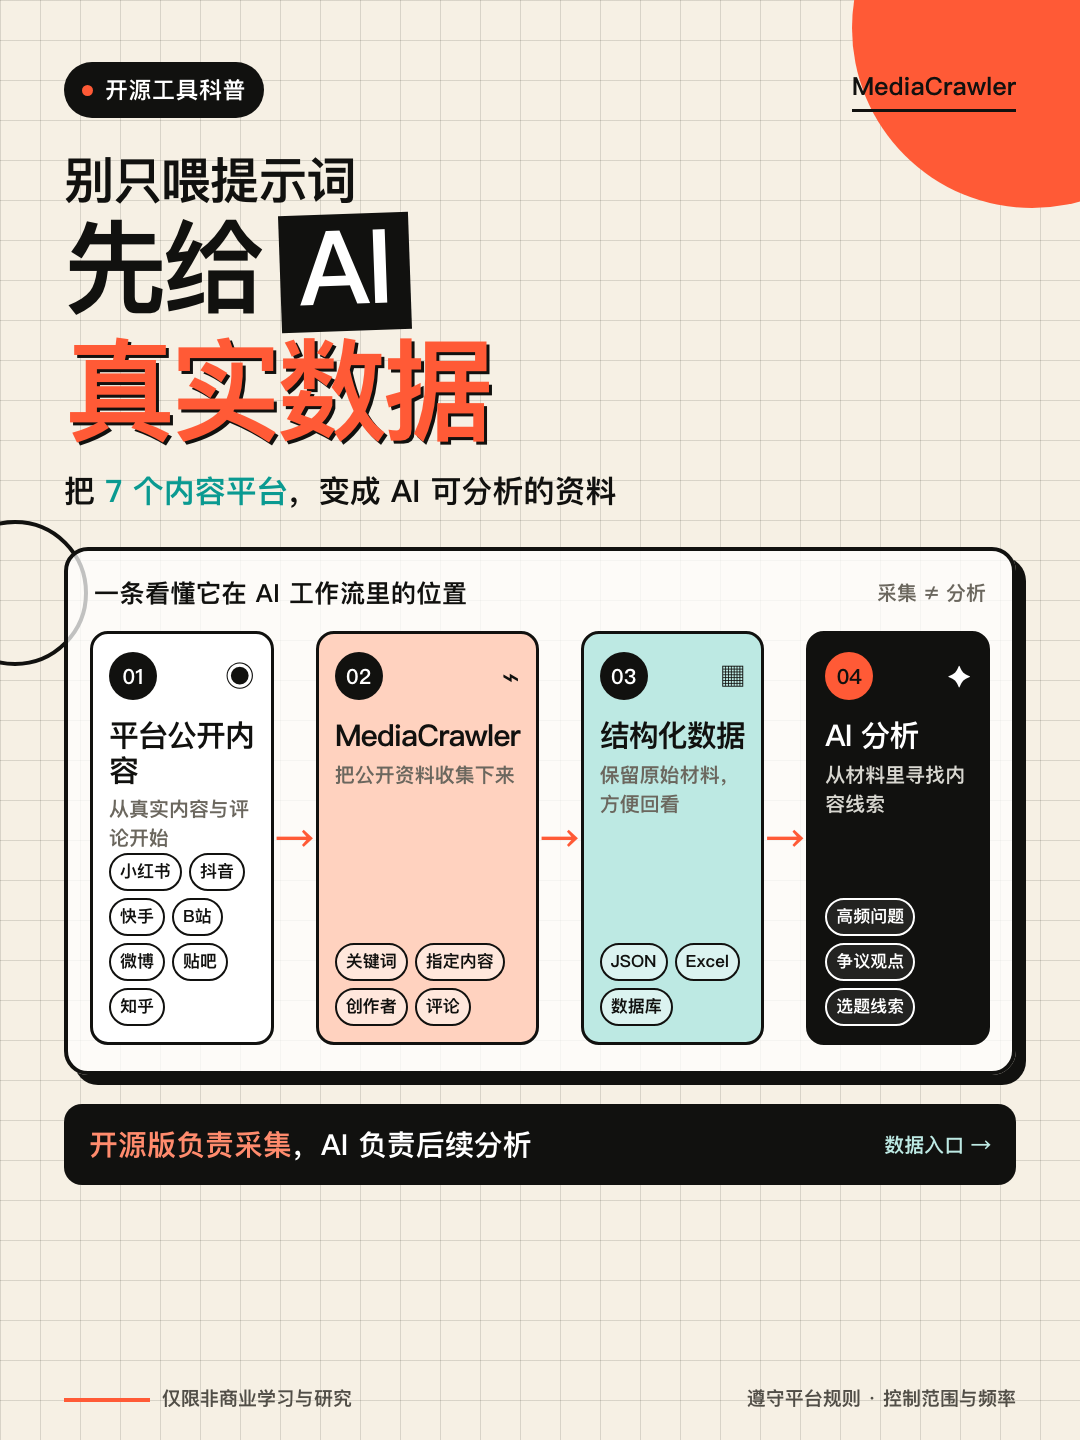
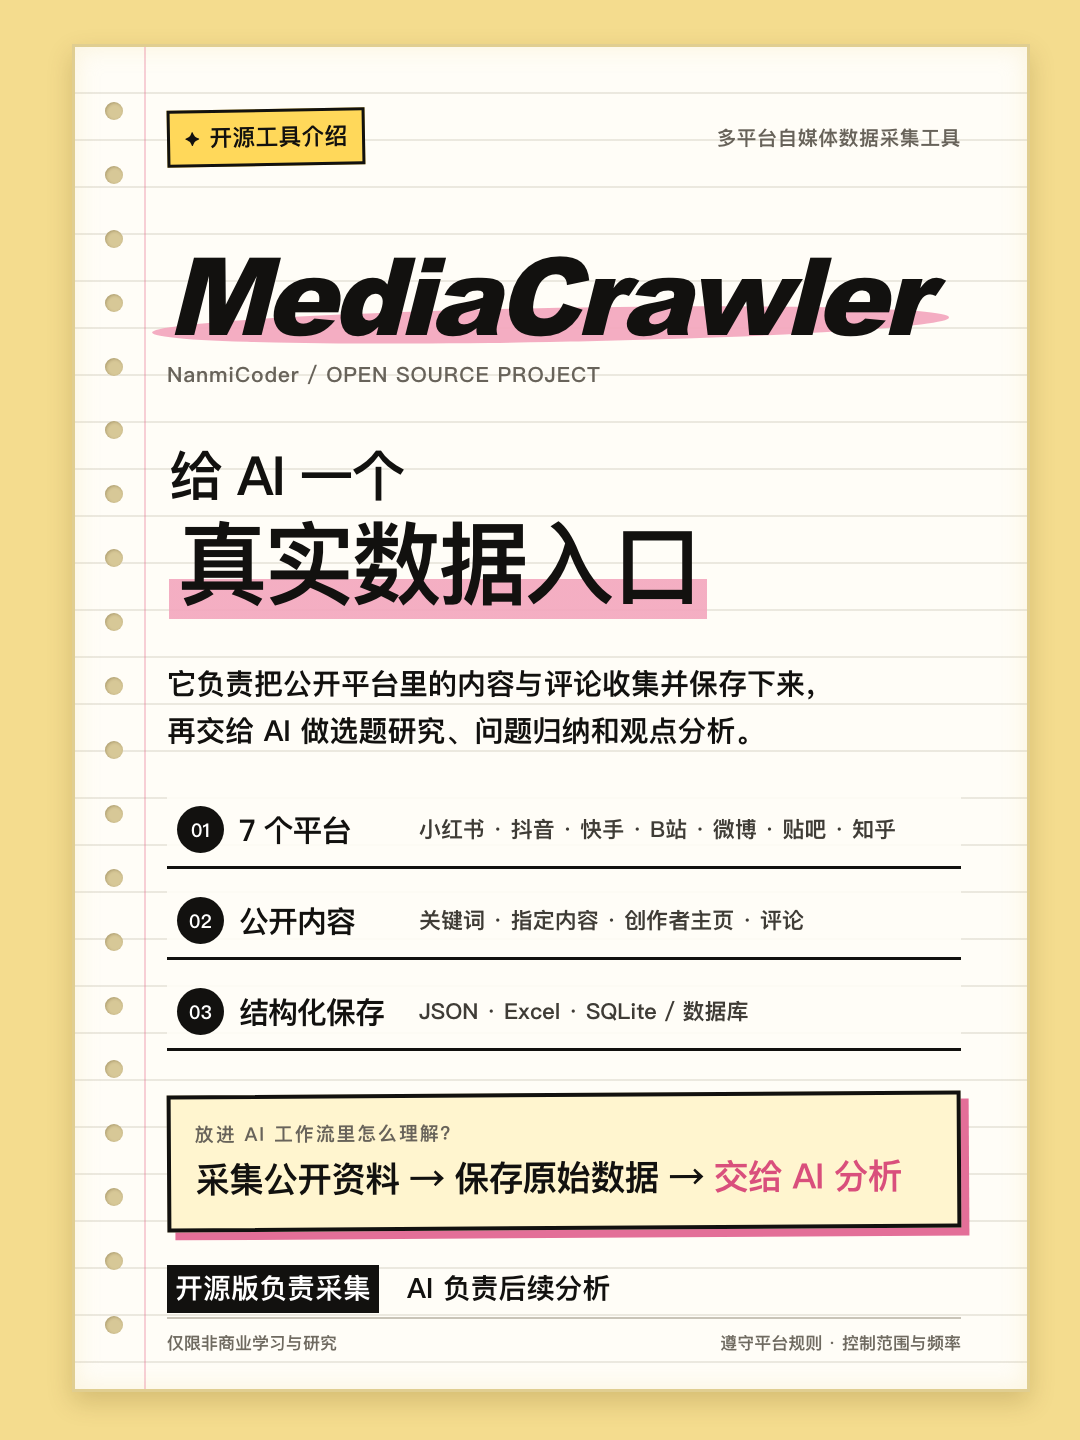
视觉：按参考模板重做 MediaCrawler 单图

diff --git a/projects/issue-6-mediacrawler-ai-data-entry/cards/plan.md b/projects/issue-6-mediacrawler-ai-data-entry/cards/plan.md
@@ -14,22 +14,23 @@
 
 ## 信息结构
 
-1. 顶部眉题：`开源工具科普 · MediaCrawler`
-2. 主标题：`别只喂提示词 / 先给 AI / 真实数据`
-3. 副标题：`把 7 个内容平台，变成 AI 可分析的资料`
-4. 四步流程：
-   - `01 平台公开内容`：小红书、抖音、快手、B站、微博、贴吧、知乎；
-   - `02 MediaCrawler`：搜索、内容、主页、评论；
-   - `03 结构化数据`：JSON、Excel、数据库；
-   - `04 AI 分析`：高频问题、争议观点、选题线索。
-5. 结论条：`开源版负责采集，AI 负责后续分析`
-6. 底部边界：`仅限非商业学习与研究 · 遵守平台规则`
+1. 顶部眉题：`开源工具介绍`；右侧小字：`多平台自媒体数据采集工具`
+2. 第一视觉中心：`MediaCrawler`
+3. AI 角度：`给 AI 一个 / 真实数据入口`
+4. 项目能力：
+   - `7 个平台`：小红书、抖音、快手、B站、微博、贴吧、知乎；
+   - `公开内容`：关键词、指定内容、创作者、评论；
+   - `结构化保存`：JSON、Excel、数据库。
+5. 简化链路：`采集公开资料 → 保存原始数据 → 交给 AI 分析`
+6. 结论：`开源版负责采集 · AI 负责后续分析`
+7. 底部边界：`仅限非商业学习与研究 · 遵守平台规则`
 
 ## 视觉路线
 
-- 米白纸张底色和细网格，降低“赛博模板”感；
-- 黑色大字建立信息层级，橙色突出“真实数据”；
-- 流程节点使用蓝绿与浅橙色，箭头清楚但不过度装饰；
+- 参考 [“自媒体人都在用的爬虫神器”](https://www.xiaohongshu.com/explore/694eed8c000000002203a8f0) 的横线笔记本封面结构；
+- 复刻暖黄色外框、白色横线纸、左侧装订孔、黑色粗体和粉色荧光笔强调关系；
+- 弱化 GitHub：不使用大号 `GitHub` 字样与章鱼图形，只用小号 `开源工具介绍` 交代类别；
+- `MediaCrawler` 占据最大字号与中心位置，项目介绍优先于平台或流程；
 - 所有平台只使用文字标签，不使用 Logo；
 - 不放 GitHub Star、作者头像、仓库截图或未经许可的外部图片。
 
@@ -40,13 +41,13 @@
 - 开源版/Pro 版边界：README 的 MediaCrawlerPro 段落；
 - 非商业学习边界：LICENSE。
 
-完整来源见 `../sources/mediacrawler-source-map.md`。
+事实来源见 `../sources/mediacrawler-source-map.md`；视觉参考见 `../sources/visual-reference.md`。
 
 ## QA 重点
 
-- 主标题在手机缩略图下仍清楚；
+- `MediaCrawler` 和“真实数据入口”在手机缩略图下仍清楚；
 - 七个平台名称无遗漏、无错字；
-- 四步流程顺序一眼可读；
+- 三组项目能力和简化链路顺序一眼可读；
 - 不让读者误以为 MediaCrawler 开源版内置 AI；
 - 底部边界文字不贴边、不裁切；
 - 最终目录中只有一张 PNG。

diff --git a/projects/issue-6-mediacrawler-ai-data-entry/qa.md b/projects/issue-6-mediacrawler-ai-data-entry/qa.md
@@ -12,6 +12,7 @@
 - [x] 易变化的 Star、Fork 数未进入文案；
 - [x] 事实、编辑观点和方法推测已在 `research.md` 分开记录；
 - [x] 来源记录固定到核验提交 `1779dde9725f6b7ef42e29022c0054b3e678f1af`。
+- [x] 视觉参考帖、作者、采用结构和适配差异已记录在 `sources/visual-reference.md`。
 
 ## 文案
 
@@ -28,10 +29,11 @@
 - [x] 最终图片为 `1080×1440` PNG；
 - [x] `cards/output/` 只包含 `xhs-01-cover.png` 一张图片；
 - [x] 已按原始尺寸实际打开检查；
-- [x] 已缩放为 `360×480` 手机预览检查主标题、四步流程和结论条；
-- [x] 主标题、工具名、七个平台和四步流程无错字；
+- [x] 已缩放为 `360×480` 手机预览检查项目名、AI Hook、三组能力和结论条；
+- [x] `MediaCrawler` 是第一视觉中心，大号 GitHub 标题与 GitHub 图形均未使用；
+- [x] 项目名、“真实数据入口”、七个平台和三组能力无错字；
 - [x] 文字无溢出、遮挡或错误裁切，四周安全边距充足；
-- [x] 流程顺序为“平台公开内容 → MediaCrawler → 结构化数据 → AI 分析”；
+- [x] 简化链路为“采集公开资料 → 保存原始数据 → 交给 AI 分析”；
 - [x] 未使用平台 Logo、仓库截图或外部图片；
 - [x] 卡片明确写出“开源版负责采集，AI 负责后续分析”；
 - [x] 底部保留非商业学习与平台规则提示。

diff --git a/projects/issue-6-mediacrawler-ai-data-entry/sources/visual-reference.md b/projects/issue-6-mediacrawler-ai-data-entry/sources/visual-reference.md
@@ -1,0 +1,25 @@
+# 单图视觉参考
+
+核验日期：2026-07-31（Asia/Taipei）
+
+## 选定参考
+
+- 参考帖：[自媒体人都在用的爬虫神器！！](https://www.xiaohongshu.com/explore/694eed8c000000002203a8f0)
+- 作者：北美小厂花花
+- 相关性：参考帖介绍的同样是 MediaCrawler，属于同题材项目介绍。
+- 采用结构：暖黄色外框、白色横线纸、左侧装订孔、顶部类别、居中项目名、下方简短能力说明。
+
+## 本篇适配
+
+- 去掉参考图中占据第一视觉层级的 `GitHub / 开源项目分享`；
+- 去掉 GitHub 章鱼图形，不让平台品牌抢过项目本身；
+- 将 `MediaCrawler` 放到最大字号和画面中心；
+- 第二视觉层级改为“给 AI 一个真实数据入口”；
+- 底部用三组短信息介绍七个平台、公开内容采集和结构化保存；
+- 保留“开源版负责采集，AI 负责后续分析”的事实边界。
+
+## 不复用内容
+
+- 不复制参考帖的正文、项目描述句子、作者署名和排版源文件；
+- 不下载或直接编辑参考帖原图；
+- 仅复刻已经由用户确认的封面结构与视觉关系，全部文字和成图重新制作。

diff --git a/projects/issue-6-mediacrawler-ai-data-entry/manifest.md b/projects/issue-6-mediacrawler-ai-data-entry/manifest.md
@@ -7,11 +7,11 @@
 - 下游文本模型：未调用；研究与写作由 Codex 基于可追溯来源完成
 - 下游图片模型：未调用；唯一卡片采用确定性 HTML/CSS 渲染
 - 下游视频模型：未调用；静态图文不进入视频链路
-- 已完成：`brief.md`、`sources/mediacrawler-source-map.md`、`research.md`、`copy.md`、`cards/plan.md`、`cards/output/xhs-01-cover.png`、`qa.md`
+- 已完成：`brief.md`、`sources/mediacrawler-source-map.md`、`sources/visual-reference.md`、`research.md`、`copy.md`、`cards/plan.md`、修订后的 `cards/output/xhs-01-cover.png`、`qa.md`
 - 待完成：用户人工 Review
 - 失败项：无
-- 下一步：在 PR 中检查最终图片和配文；不执行平台发布
-- 最后核验时间：2026-07-31T10:38:03+08:00
+- 下一步：在 PR 中检查修订后的最终图片；不执行平台发布
+- 最后核验时间：2026-07-31T11:11:46+08:00
 
 ## 交付路径
 
